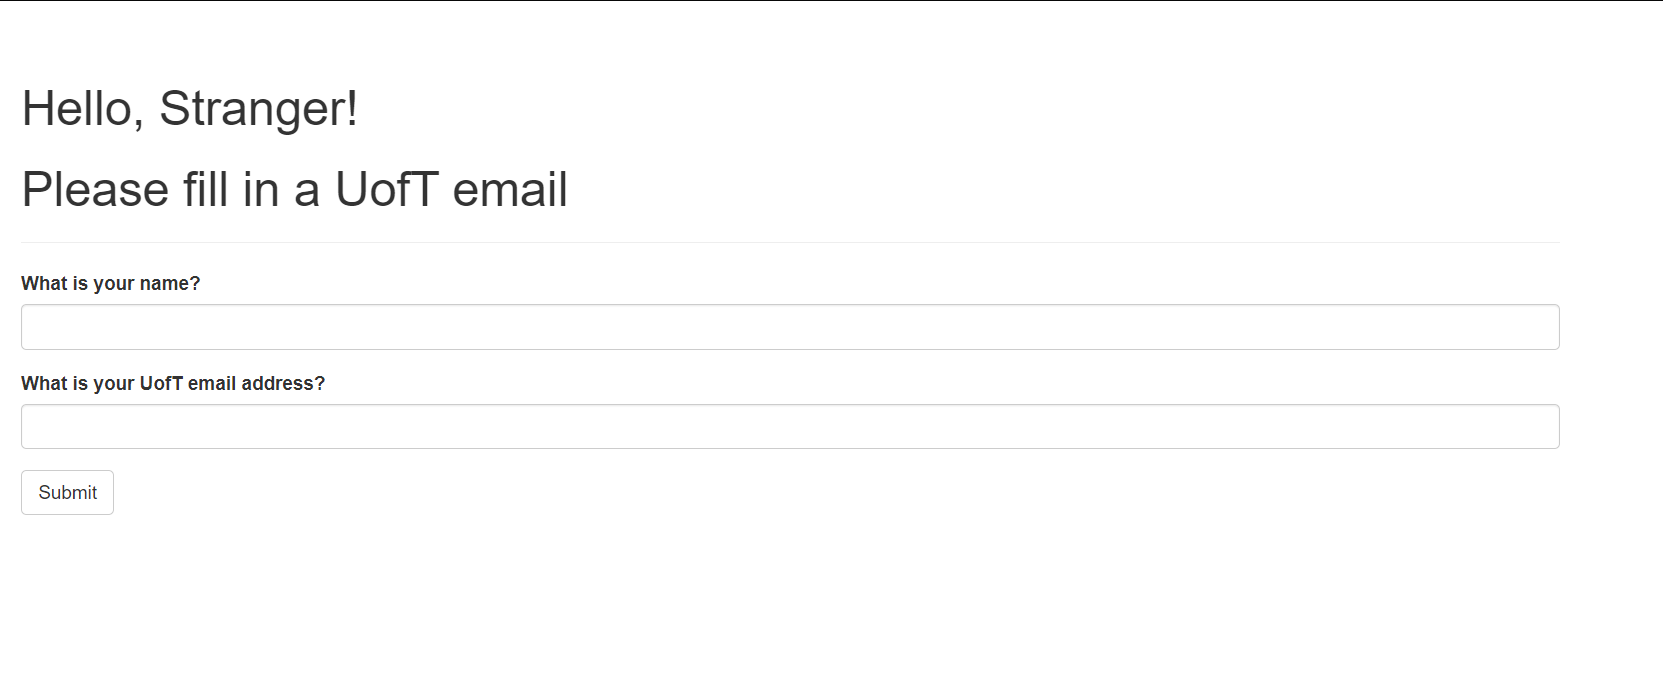
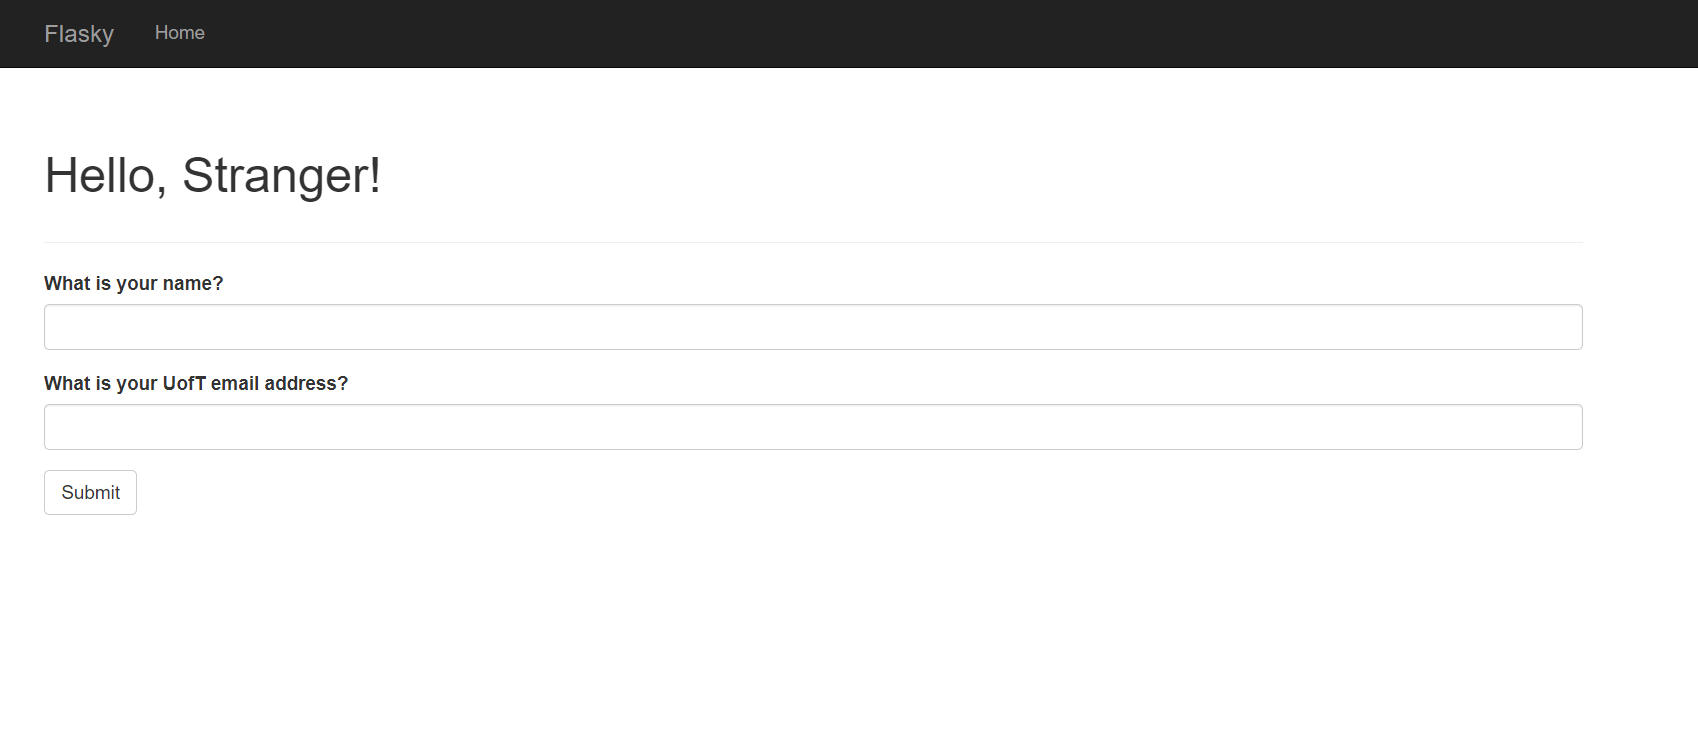
Don't ask for u of t email when user hasn't inputted any email yet

diff --git a/templates/index.html b/templates/index.html
@@ -6,7 +6,7 @@
 {% block page_content %}
 <div class="page-header">
     <h1>Hello, {% if name %}{{ name }}{% else %}Stranger{% endif %}!</h1>
-    <h1>{% if 'utoronto' in email %}Your UofT email is {{ email }}{% else %}Please fill in a UofT email{% endif %}</h1>
+    <h1>{% if email %}{% if 'utoronto' in email %}Your UofT email is {{ email }}{% else %}Please fill in a UofT email{% endif %}{% endif %}</h1>
 </div>
 
 {{ wtf.quick_form(form) }}
